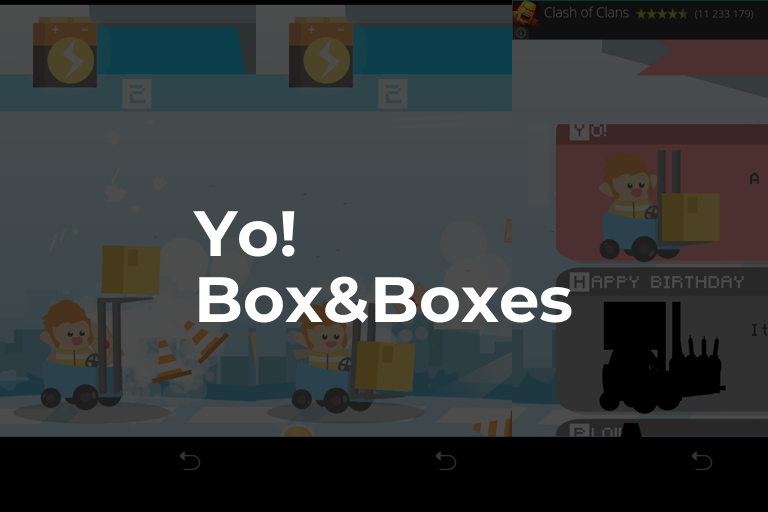
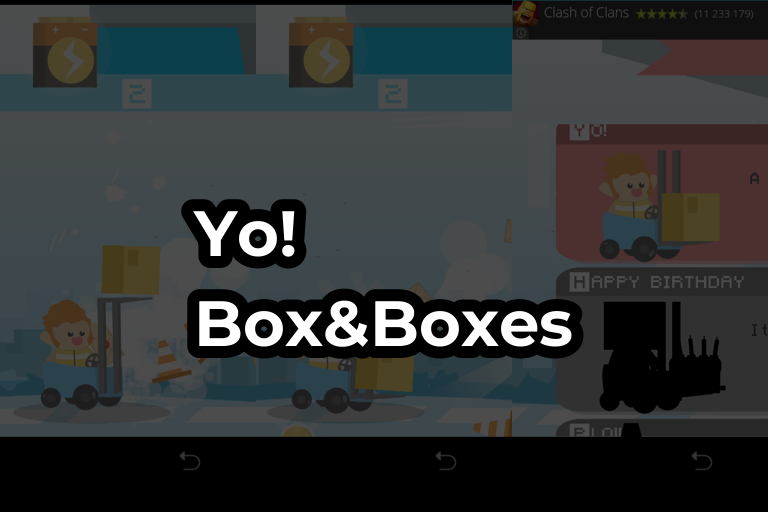
More game

Changed region(s): [[0.2188, 0.375, 0.7812, 0.7188]]

diff --git a/themes/freelancer/layouts/partials/projects.html b/themes/freelancer/layouts/partials/projects.html
@@ -2,22 +2,22 @@
 
 {{ if $element }}
 <div style="background-color: #e9ecef;">
-	<section class="page-section portfolio col-md-8  mx-auto" id="portfolio" style="background-color: #e9ecef;">
+	<section class="page-section portfolio col-md-8 mx-auto" id="portfolio" style="background-color: #e9ecef;">
 		<div class="container">
 			<div class="divider-custom">
-				<div class="divider-custom-line" style="background-color: #2c3e50; border-color: #2c3e50"></div>
-				<div class="divider-custom-icon" style="border-color: #2c3e50"><em class="fas fa-heart"></em>
+				<div class="divider-custom-line" style="background-color: #165b69; border-color: #165b69"></div>
+				<div class="divider-custom-icon" style="color: #165b69"><em class="fas fa-heart"></em>
 				</div>
-				<div class="divider-custom-line" style="background-color: #2c3e50; border-color: #2c3e50"></div>
+				<div class="divider-custom-line" style="background-color: #165b69; border-color: #165b69"></div>
 			</div>
 			<br>
-			<div class="row justify-content-center">
+			<div class="row justify-content-center pb-5">
 				{{ $counter := 0 }}
 				{{ range $element }}
 				{{ $counter = add $counter 1 }}
-				<div class="portfolio-item mx-auto pb-4">
-					<a href="{{ .Params.Playstore }}" target="_blank" rel="noopener noreferrer"> <img class="img-fluid"
-							style="border-radius: 8px;" src="/{{.Page.Params.Hero}}" alt="..." /></a>
+				<div class="portfolio-item">
+					<a href="{{ .Params.Playstore }}" target="_blank" rel="noopener noreferrer"><img class="img-fluid"
+							 src="/{{.Page.Params.Hero}}"/></a>
 					<!-- <br>
 					<br> -->
 					<!-- <a href="{{ .Params.Playstore }}" target="_blank" rel="noopener noreferrer"> <img height="50"

diff --git a/themes/freelancer/static/css/style.css b/themes/freelancer/static/css/style.css
@@ -34,14 +34,14 @@
   --bs-gray-700: #495057;
   --bs-gray-800: #343a40;
   --bs-gray-900: #212529;
-  --bs-primary: #2c3e50;
-  --bs-secondary: #2c3e50;
+  --bs-primary: #165b69;
+  --bs-secondary: #165b69;
   --bs-success: #198754;
   --bs-info: #0dcaf0;
   --bs-warning: #ffc107;
   --bs-danger: #dc3545;
   --bs-light: #f8f9fa;
-  --bs-dark: #212529;
+  --bs-dark: #10424d;
   --bs-primary-rgb: 26, 188, 156;
   --bs-secondary-rgb: 44, 62, 80;
   --bs-success-rgb: 25, 135, 84;
@@ -12399,7 +12399,7 @@ html {
 }
 
 .copyright {
-  background-color: #1a252f;
+  background-color: var(--bs-dark);
 }
 
 .portfolio {
@@ -12410,9 +12410,11 @@ html {
   cursor: pointer;
   position: relative;
   display: block;
-  max-width: 25rem;
-  border-radius: 0.5rem;
+  max-width: 28rem;
+  /* border-radius: 0.5rem; */
   overflow: hidden;
+  margin: 0;
+  padding: 0.1em;
 }
 
 .portfolio .portfolio-item .portfolio-item-caption {

diff --git a/static/scripts/createthumbnails.py b/static/scripts/createthumbnails.py
@@ -151,8 +151,8 @@ miniature('be.rtl.info', 'fr', 'RTL info', 'rtlinfo.png')
 miniature('be.appsolution.lesoir', 'fr', 'Le Soir', 'lesoir.png')
 miniature('fr.k_decole.mobile', 'fr', 'Skolengo', 'skolengo.png')
 
-#miniatureFromIch('https://crucknuk.itch.io/yo-runner', "Yo!\nBox&Boxes", 'yorunner.png')
-#miniatureFromIch('https://crucknuk.itch.io/blobi', "Blobitronica", 'blobitronica.png')
-#miniatureFromIch('https://crucknuk.itch.io/deepteam', "DeepTeam", 'deepteam.png')
+miniatureFromIch('https://crucknuk.itch.io/yo-runner', "Yo!\nBox&Boxes", 'yorunner.png')
+miniatureFromIch('https://crucknuk.itch.io/blobi', "Blobitronica", 'blobitronica.png')
+miniatureFromIch('https://crucknuk.itch.io/deepteam', "DeepTeam", 'deepteam.png')
 
 print("DONE")

diff --git a/content/projects/yorunner/index.md b/content/projects/yorunner/index.md
@@ -3,8 +3,8 @@ title: "Yorunner"
 date: 2022-12-05T11:43:19+01:00
 sidebar: false
 tags: []
-draft: true
+draft: false
 hero: "yorunner.png"
 summary: ""
-itch: https://crucknuk.itch.io/yorunner
+playstore: https://crucknuk.itch.io/yo-runner
 ---

diff --git a/content/projects/blobitronica/index.md b/content/projects/blobitronica/index.md
@@ -4,7 +4,7 @@ date: 2022-12-05T11:41:12+01:00
 sidebar: false
 tags: []
 hero: "blobitronica.png"
-draft: true
+draft: false
 summary: ""
-itch: https://crucknuk.itch.io/blobi
+playstore: https://crucknuk.itch.io/blobi
 ---
